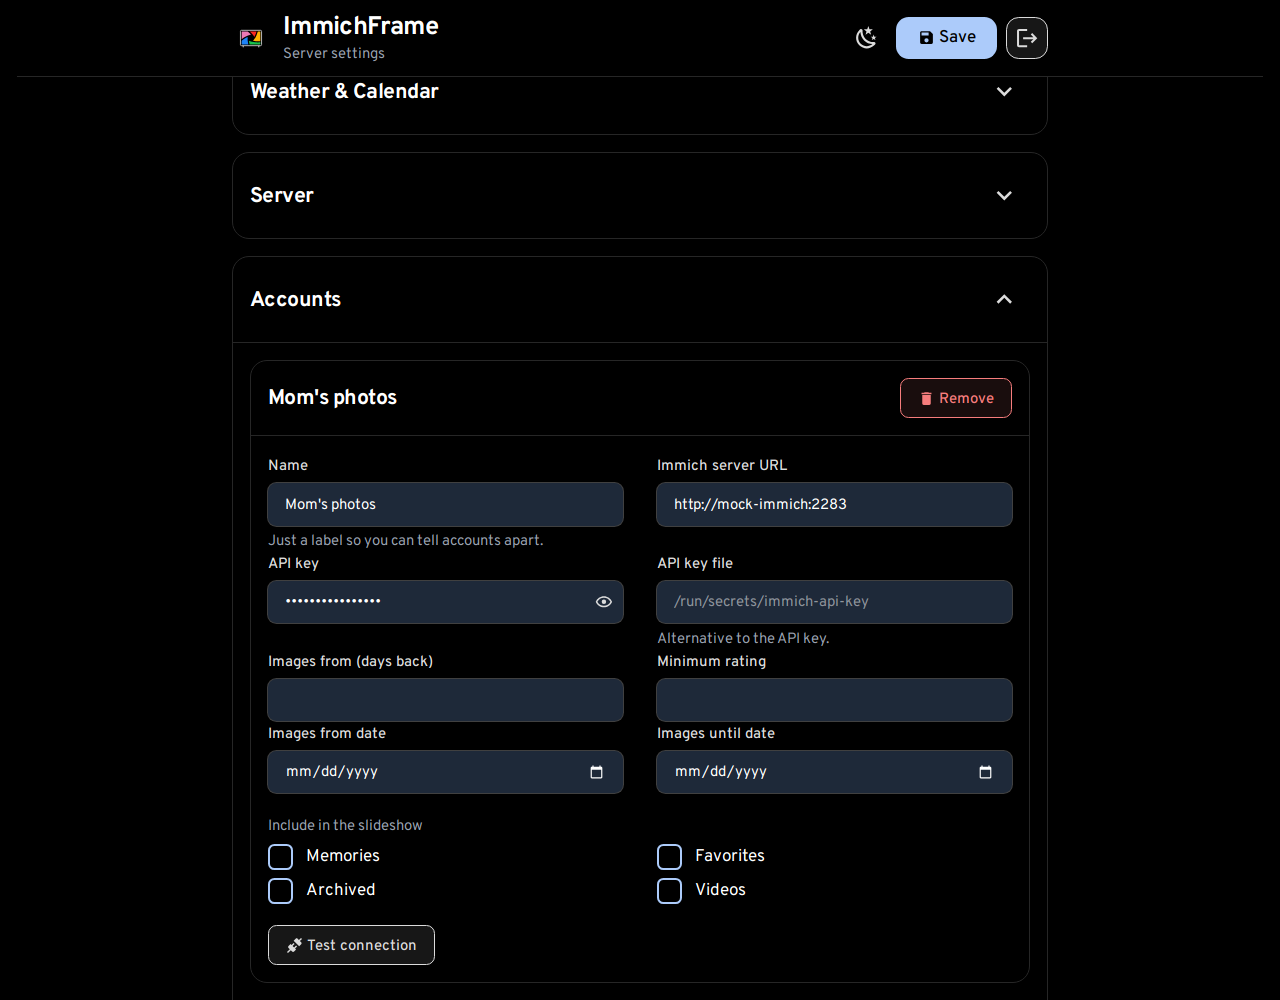
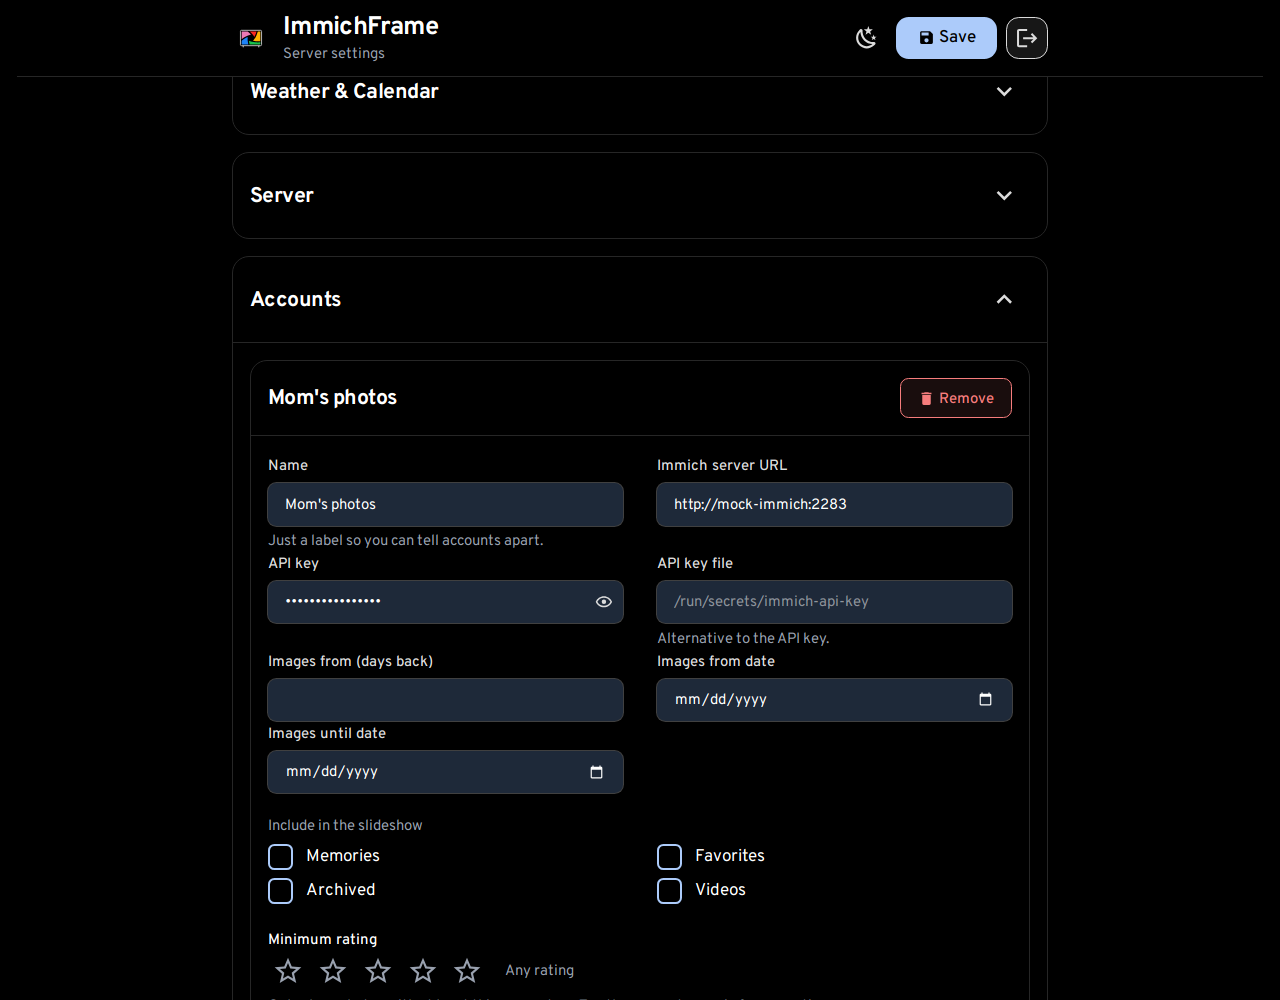
Admin: star selector for the minimum rating
- Replace the Minimum rating number box with five tappable stars (tap the picked
  star again for any rating); shown below the account checkboxes
- Mock Immich gives photos star ratings and honors the rating filter
- New rating-stars screenshot and README entry; screenshots regenerated

diff --git a/immichFrame.Web/src/lib/components/admin/setting-field.svelte b/immichFrame.Web/src/lib/components/admin/setting-field.svelte
@@ -5,12 +5,15 @@
 		Checkbox,
 		Field,
 		HelperText,
+		Icon,
 		Input,
 		NumberInput,
 		PasswordInput,
 		Select,
+		Text,
 		Textarea
 	} from '@immich/ui';
+	import { mdiStar, mdiStarOutline } from '@mdi/js';
 
 	interface Props {
 		field: AnyFieldDef;
@@ -35,6 +38,13 @@
 
 	let textValue = $derived((target[field.key] as string | null) ?? '');
 	let dateValue = $derived(textValue.substring(0, 10));
+
+	// Minimum star rating: 1-5, or null/0 for "any". Tapping the picked star again clears it.
+	let rating = $derived((target[field.key] as number | null) ?? 0);
+
+	function pickRating(stars: number) {
+		target[field.key] = rating === stars ? null : stars;
+	}
 
 	function updateList(text: string) {
 		listText = text;
@@ -77,6 +87,29 @@
 				min={field.min}
 				max={field.max}
 			/>
+		{:else if field.type === 'rating'}
+			<!-- Field only draws its label for real inputs, so the label is drawn here -->
+			<Text size="small" class="font-medium">{field.label}</Text>
+			<div class="flex items-center gap-1" role="radiogroup" aria-label={field.label}>
+				{#each [1, 2, 3, 4, 5] as stars (stars)}
+					<button
+						type="button"
+						role="radio"
+						aria-checked={rating === stars}
+						aria-label="{stars} {stars === 1 ? 'star' : 'stars'} or more"
+						class="rounded-md p-1 transition hover:scale-110 focus-visible:outline-2 focus-visible:outline-offset-2 focus-visible:outline-primary {stars <=
+						rating
+							? 'text-amber-400'
+							: 'text-gray-400'}"
+						onclick={() => pickRating(stars)}
+					>
+						<Icon icon={stars <= rating ? mdiStar : mdiStarOutline} size="32" />
+					</button>
+				{/each}
+				<Text color="muted" size="small" class="ml-3">
+					{rating ? `${rating}+ stars` : 'Any rating'}
+				</Text>
+			</div>
 		{:else if field.type === 'password'}
 			<PasswordInput
 				autocomplete="off"

diff --git a/immichFrame.Web/src/lib/components/admin/admin-fields.ts b/immichFrame.Web/src/lib/components/admin/admin-fields.ts
@@ -8,7 +8,8 @@ export type FieldType =
 	| 'select'
 	| 'list'
 	| 'date'
-	| 'guid-list';
+	| 'guid-list'
+	| 'rating';
 
 export interface FieldDef<T = GeneralSettings> {
 	key: keyof T & string;
@@ -31,11 +32,14 @@ export interface SectionDef<T = GeneralSettings> {
 	fields: FieldDef<T>[];
 }
 
-// Non-checkbox fields first, then the checkboxes together (order within each group is kept).
+// Plain fields first, then the checkboxes together, then the star rating (order within each
+// group is kept).
 export function checkboxesLast<T>(fields: FieldDef<T>[]): FieldDef<T>[] {
+	const isOther = (f: FieldDef<T>) => f.type !== 'checkbox' && f.type !== 'rating';
 	return [
-		...fields.filter((f) => f.type !== 'checkbox'),
-		...fields.filter((f) => f.type === 'checkbox')
+		...fields.filter(isOther),
+		...fields.filter((f) => f.type === 'checkbox'),
+		...fields.filter((f) => f.type === 'rating')
 	];
 }
 
@@ -201,7 +205,12 @@ export const accountFields: FieldDef<ServerAccountSettings>[] = [
 	{ key: 'showArchived', label: 'Archived', type: 'checkbox' },
 	{ key: 'showVideos', label: 'Videos', type: 'checkbox' },
 	{ key: 'imagesFromDays', label: 'Images from (days back)', type: 'number' },
-	{ key: 'rating', label: 'Minimum rating', type: 'number', min: 1, max: 5 },
+	{
+		key: 'rating',
+		label: 'Minimum rating',
+		type: 'rating',
+		help: 'Only show photos with at least this many stars. Tap the same star again for any rating.'
+	},
 	{ key: 'imagesFromDate', label: 'Images from date', type: 'date' },
 	{ key: 'imagesUntilDate', label: 'Images until date', type: 'date' }
 ];

diff --git a/immichFrame.Web/src/lib/components/admin/settings-grid.svelte b/immichFrame.Web/src/lib/components/admin/settings-grid.svelte
@@ -27,6 +27,10 @@
 				<div class="h-5 sm:col-span-2"></div>
 			{/if}
 		{/if}
-		<SettingField {field} {target} />
+		{#if field.type === 'rating'}
+			<div class="mt-5 sm:col-span-2"><SettingField {field} {target} /></div>
+		{:else}
+			<SettingField {field} {target} />
+		{/if}
 	{/each}
 </div>

diff --git a/README.md b/README.md
@@ -10,6 +10,7 @@ This fork exists to add features and fixes I wanted that the original project do
 - **Pick albums, people and tags from tiles instead of typing UUIDs.** The admin UI has a "What to show" tab that lists albums, people and tags straight from Immich as tiles with cover photos. Long lists have a search box. Tap what you want, press Save. The API key stays on the server.
 - **Name your accounts.** Accounts get an optional name that is shown in the admin UI instead of "Account 1", "Account 2".
 - **Admin split into "What to show" and "Settings" tabs.** Content selection and display settings are separate tabs, and the "Saved" notice can be closed (and goes away by itself).
+- **Star selector for the minimum rating.** The account's "Minimum rating" is five tappable stars instead of a number box: only photos with at least that many stars are shown. Tap the same star again to go back to any rating.
 - **Light / dark mode switch in the admin UI.** The admin UI follows your browser's light or dark theme by default. The sun/moon button in the header switches it, and your choice is remembered on that device.
 - **"Refresh photos now".** One button clears everything ImmichFrame cached from Immich and makes running frames drop their queued photos. Changing the picked albums/people/tags does the same automatically, and frames re-check their config every 2 minutes, so changes show up without reloading the frame.
 - **Tap-zone controls for touch screens.** New `TouchZoneControls` setting. The slideshow is split into three invisible tap zones: left = back, middle = pause/play, right = next. Works with mouse clicks too. (The dashed outlines in the screenshot are drawn for illustration only.)
@@ -44,6 +45,10 @@ This fork exists to add features and fixes I wanted that the original project do
 <p align="center"><img src="screenshots/admin-settings-tab.png" alt="The Settings tab" width="720"><br><sub>The Settings tab</sub></p>
 
 <p align="center"><img src="screenshots/admin-saved-notice.png" alt="The closable "Saved" notice" width="720"><br><sub>The closable "Saved" notice</sub></p>
+
+#### Star selector for the minimum rating
+
+<p align="center"><img src="screenshots/rating-stars.png" alt="Minimum rating set to 4 stars" width="720"><br><sub>Minimum rating set to 4 stars</sub></p>
 
 #### Light / dark mode switch in the admin UI
 
